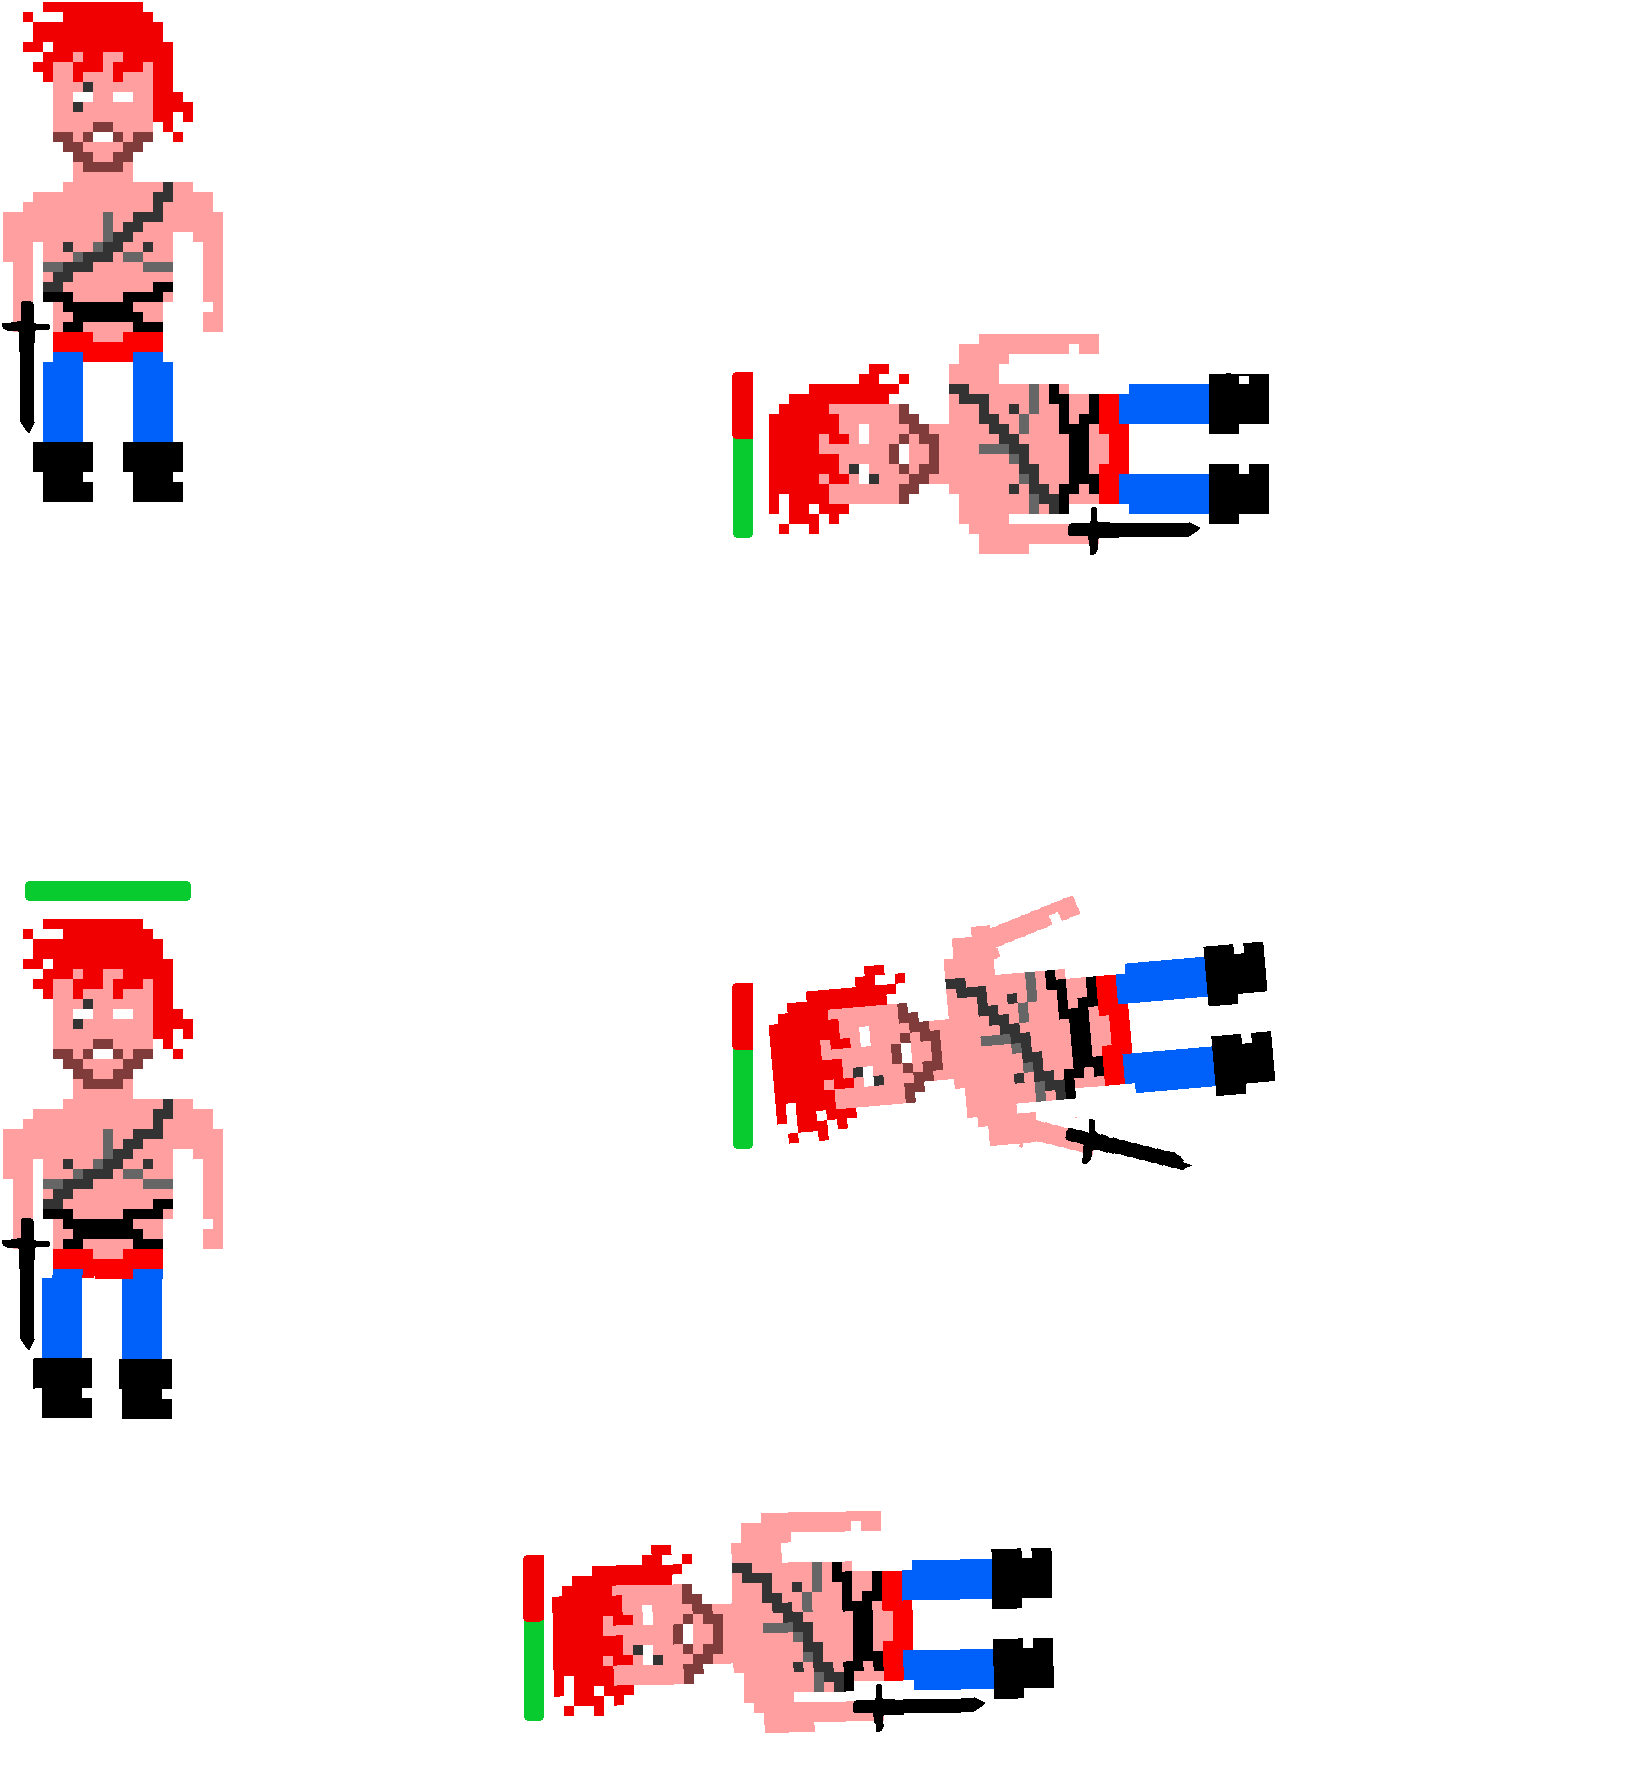
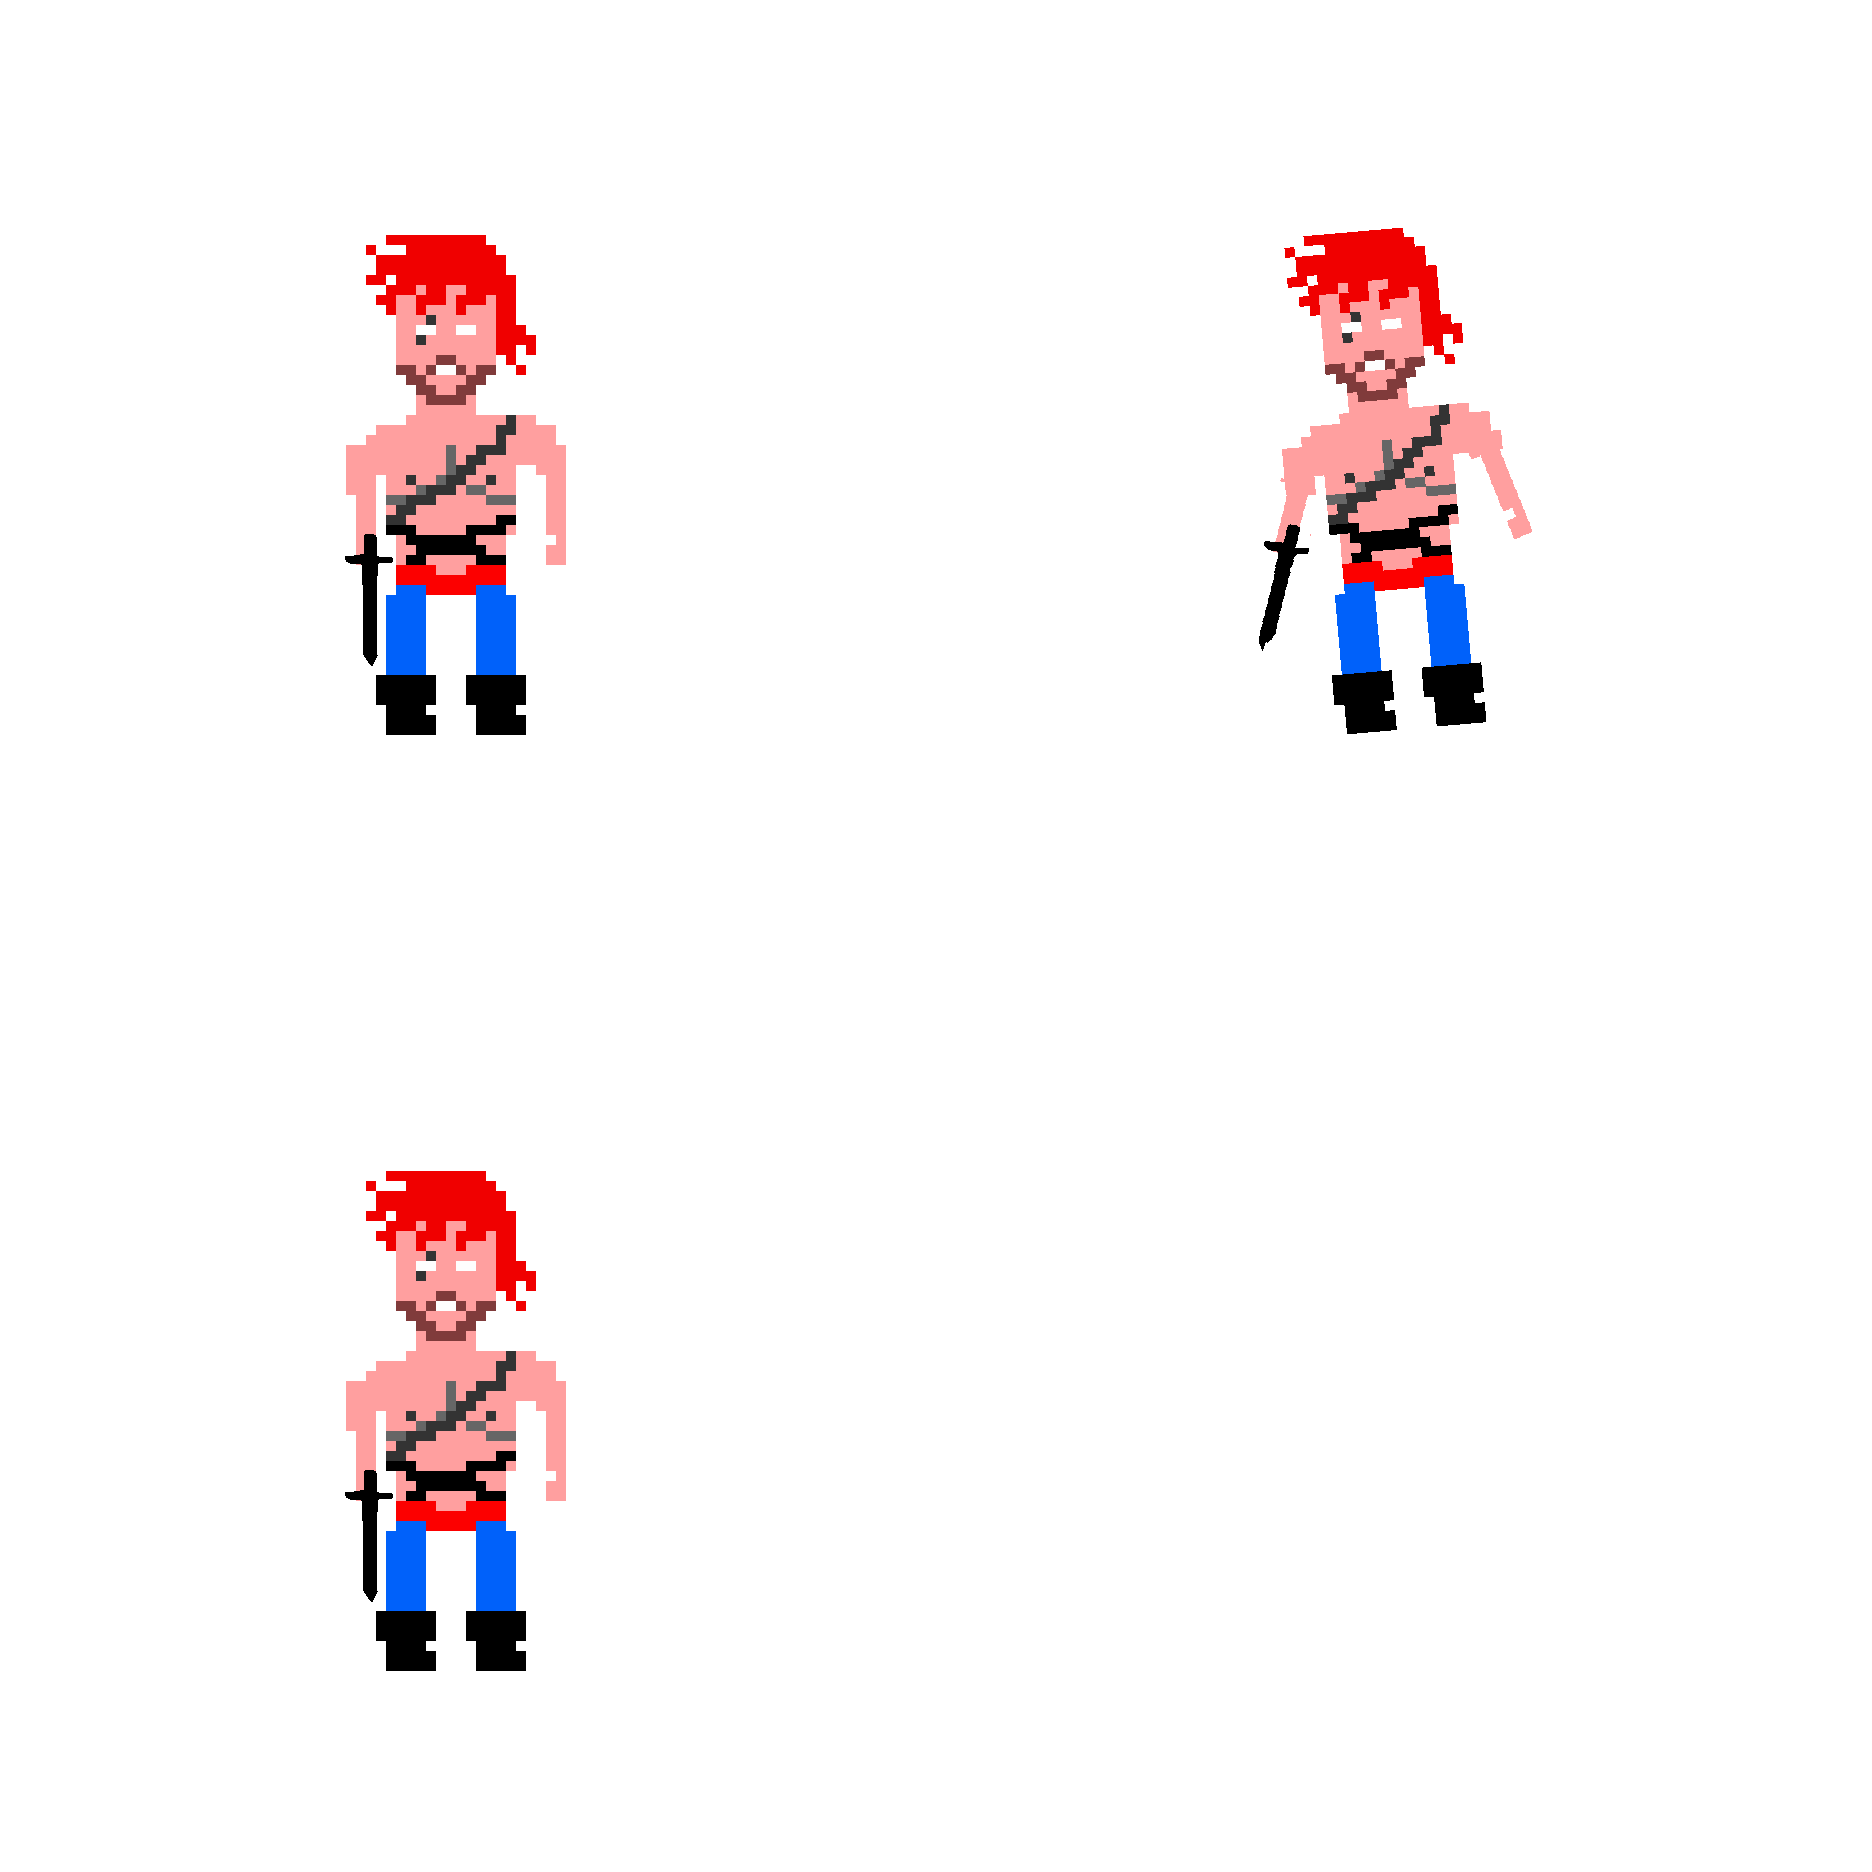
let player keep moving

diff --git a/source/core/src/main/com/deco2800/game/components/CombatStatsComponent.java b/source/core/src/main/com/deco2800/game/components/CombatStatsComponent.java
@@ -174,7 +174,8 @@ public class CombatStatsComponent extends Component {
       }
 
       if (attacker.getEntity().getType() == Entity.Type.PLAYER) {
-        logger.error("attacker--{}", attacker.getEntity().getType());
+        logger.error("attacker--{}", attacker.getEntity().getType(),
+                attacker.getEntity());
         AnimationRenderComponent3 animator =
                 attacker.getEntity().getComponent(AnimationRenderComponent3.class);
         animator.startAnimation("buff");
@@ -210,7 +211,7 @@ public class CombatStatsComponent extends Component {
       }
 
       if (attacker.getEntity().getType() == Entity.Type.PLAYER) {
-        logger.error("attacker--{}", attacker.getEntity().getType());
+        logger.error("attacker--{}", attacker.getEntity().getType(),attacker.getEntity());
         AnimationRenderComponent4 animator =
                 attacker.getEntity().getComponent(AnimationRenderComponent4.class);
         animator.startAnimation("deBuff");
@@ -236,6 +237,50 @@ public class CombatStatsComponent extends Component {
       setHealth(newHealth);
     }
 
+  }
+//  public void hitCoins(CombatStatsComponent attacker) {
+//    try {
+//      if (ServiceLocator.getTimeSource().getTimeSince(invincibleStart) < 1000L) {
+//        return;
+//      }
+//
+//      if (attacker.getEntity().getType() == Entity.Type.PLAYER) {
+//        logger.error("attacker--{}", attacker.getEntity().getType(),attacker.getEntity());
+//        AnimationRenderComponent4 animator =
+//                attacker.getEntity().getComponent(AnimationRenderComponent4.class);
+//        animator.startAnimation("deBuff");
+//        Sound attackSound = ServiceLocator.getResourceService().getAsset(
+//                "sounds/buff2.ogg", Sound.class);
+//        attackSound.play();
+//        logger.error("--end--attacker--{}",attacker.getEntity().getType());
+//      }
+//
+//      if (armour > 0){
+//        int newArmour = getArmour() - attacker.getBaseAttack();
+//        setArmour(newArmour);
+//        invincibleStart = ServiceLocator.getTimeSource().getTime();
+//      }
+//      else{
+//        int newHealth = getHealth() - attacker.getBaseAttack();
+//        setHealth(newHealth);
+//        invincibleStart = ServiceLocator.getTimeSource().getTime();
+//      }
+//
+//    } catch (NullPointerException e) {
+//      int newHealth = getHealth() - attacker.getBaseAttack();
+//      setHealth(newHealth);
+//    }
+//
+//  }
+
+
+
+  public void getBackNormal(CombatStatsComponent attacker){
+    logger.error("attacker--{}", attacker.getEntity().getType());
+    AnimationRenderComponent4 animator =
+            attacker.getEntity().getComponent(AnimationRenderComponent4.class);
+    animator.startAnimation("default");
+    logger.error("--end--attacker--{}",attacker.getEntity().getType());
   }
 }
 

diff --git a/source/core/src/main/com/deco2800/game/entities/factories/PlayerFactory.java b/source/core/src/main/com/deco2800/game/entities/factories/PlayerFactory.java
@@ -53,19 +53,26 @@ public class PlayerFactory {
                                     TextureAtlas.class));
     animator.addAnimation("attack", 0.03f, Animation.PlayMode.NORMAL);
 
+    AnimationRenderComponent5 animator5 =
+            new AnimationRenderComponent5(
+                    ServiceLocator.getResourceService()
+                            .getAsset("images/run.atlas",
+                                    TextureAtlas.class));
+    animator5.addAnimation("run", 0.15f, Animation.PlayMode.LOOP);
+
     AnimationRenderComponent3 animator3 =
             new AnimationRenderComponent3(
                     ServiceLocator.getResourceService()
                             .getAsset("images/posipuff.atlas",
                                     TextureAtlas.class));
-    animator3.addAnimation("buff", 0.03f, Animation.PlayMode.NORMAL);
+    animator3.addAnimation("buff", 0.15f, Animation.PlayMode.NORMAL);
 
     AnimationRenderComponent4 animator4 =
             new AnimationRenderComponent4(
                     ServiceLocator.getResourceService()
                             .getAsset("images/negbuff.atlas",
                                     TextureAtlas.class));
-    animator4.addAnimation("deBuff", 0.03f, Animation.PlayMode.NORMAL);
+    animator4.addAnimation("deBuff", 0.15f, Animation.PlayMode.NORMAL);
 
 //    AnimationRenderComponent animator1 =
 //            new AnimationRenderComponent(
@@ -86,7 +93,7 @@ public class PlayerFactory {
 
     Entity player =
         new Entity(Entity.Type.PLAYER)
-            .addComponent(new TextureRenderComponent("images/new_player_2021.png"))
+            .addComponent(new TextureRenderComponent("images/blank.png"))
             .addComponent(new PhysicsComponent())
             .addComponent(new ColliderComponent())
             .addComponent(new HitboxComponent().setLayer(PhysicsLayer.PLAYER))
@@ -96,12 +103,11 @@ public class PlayerFactory {
             .addComponent(inputComponent)
                 .addComponent(new TouchAttackComponent(PhysicsLayer.NPC, PhysicsLayer.OBSTACLE, 1.5f))
                 .addComponent(animator)
-//                .addComponent(animator3)
             .addComponent(new PlayerStatsDisplay())
                 .addComponent(animator2)
-//                .addComponent(animator1);
                 .addComponent(animator3)
-                .addComponent(animator4);
+                .addComponent(animator4)
+                .addComponent(animator5);
 
     PhysicsUtils.setScaledCollider(player, 0.6f, 0.3f);
     player.getComponent(ColliderComponent.class).setDensity(1.5f);

diff --git a/source/core/src/main/com/deco2800/game/components/player/PlayerActions.java b/source/core/src/main/com/deco2800/game/components/player/PlayerActions.java
@@ -13,6 +13,7 @@ import com.deco2800.game.rendering.AnimationRenderComponent;
 import com.deco2800.game.services.ServiceLocator;
 import org.slf4j.Logger;
 import org.slf4j.LoggerFactory;
+import com.deco2800.game.rendering.AnimationRenderComponent5;
 
 import javax.crypto.EncryptedPrivateKeyInfo;
 import java.security.Key;
@@ -31,19 +32,26 @@ public class PlayerActions extends Component {
   private boolean moving = false;
   private  CombatStatsComponent combatStatsComponent;
   AnimationRenderComponent animator;
+  AnimationRenderComponent5 animator2;
 
   @Override
   public void create() {
     animator = this.entity.getComponent(AnimationRenderComponent.class);
+    animator2 = this.entity.getComponent(AnimationRenderComponent5.class);
     physicsComponent = entity.getComponent(PhysicsComponent.class);
     entity.getEvents().addListener("walk", this::walk);
     entity.getEvents().addListener("walkStop", this::stopWalking);
     entity.getEvents().addListener("attack", this::attack);
     entity.getEvents().addListener("unAttack", this::unAttack);
+    entity.getEvents().addListener("run", this::attack);
+    entity.getEvents().addListener("run", this::run);
   }
 
   @Override
   public void update() {
+    if(animator2.getCurrentAnimation() == null) {
+       animator2.startAnimation("run");
+    }
     if (moving) {
       updateSpeed();
     }
@@ -66,6 +74,7 @@ public class PlayerActions extends Component {
   void walk(Vector2 direction) {
     this.walkDirection = direction;
     moving = true;
+
   }
 
   /**
@@ -103,12 +112,16 @@ public class PlayerActions extends Component {
     }
     Sound attackSound = ServiceLocator.getResourceService().getAsset("sounds/attack.ogg", Sound.class);
     attackSound.play();
+    animator2.stopAnimation();
     animator.startAnimation("attack");
+
   }
 
   void unAttack(){
     animator.stopAnimation();
+    animator2.startAnimation("run");
   }
+  void run(){animator2.startAnimation("run"); }
 
   private Entity findNearestTargets(Array<Entity> entities) {
     Entity result = null;

diff --git a/source/core/src/main/com/deco2800/game/entities/factories/ObstacleFactory.java b/source/core/src/main/com/deco2800/game/entities/factories/ObstacleFactory.java
@@ -34,7 +34,7 @@ public class ObstacleFactory {
 	 */
 	public static Entity createTree() {
 		Entity tree =
-				new Entity(Entity.Type.OBSTACLE)
+				new Entity(Entity.Type.DEBUFF)
 						.addComponent(new TextureRenderComponent("images/tree.png"))
 						.addComponent(new PhysicsComponent())
 						.addComponent(new HitboxComponent().setLayer(PhysicsLayer.OBSTACLE))
@@ -50,7 +50,7 @@ public class ObstacleFactory {
 
 	public static Entity createRunesGate() {
 		Entity RunesGate =
-				new Entity(Entity.Type.OBSTACLE)
+				new Entity(Entity.Type.DEBUFF)
 						.addComponent(new TextureRenderComponent("images/RunesGate.gif"))
 						.addComponent(new PhysicsComponent())
 						.addComponent(new ColliderComponent().setLayer(PhysicsLayer.OBSTACLE))
@@ -66,7 +66,7 @@ public class ObstacleFactory {
 
 	public static Entity createStoneObstacle() { //CombatStatsComponent combat) {
 		Entity stone =
-				new Entity(Entity.Type.OBSTACLE)
+				new Entity(Entity.Type.DEBUFF)
 						.addComponent(new TextureRenderComponent("images/stone.png"))
 						.addComponent(new PhysicsComponent())
 						.addComponent(new ColliderComponent().setLayer(PhysicsLayer.OBSTACLE))
@@ -85,7 +85,7 @@ public class ObstacleFactory {
 
 	public static Entity createthunderCloud() {
 		Entity thunderCloud =
-				new Entity(Entity.Type.OBSTACLE)
+				new Entity(Entity.Type.DEBUFF)
 						.addComponent(new TextureRenderComponent("images/thunderCloud.gif"))
 						.addComponent(new PhysicsComponent())
 						.addComponent(new ColliderComponent().setLayer(PhysicsLayer.OBSTACLE))
@@ -103,7 +103,7 @@ public class ObstacleFactory {
 
 	public static Entity createFire() {
 		Entity fire =
-				new Entity(Entity.Type.OBSTACLE)
+				new Entity(Entity.Type.DEBUFF)
 						.addComponent(new TextureRenderComponent("images/fire.png"))
 						.addComponent(new ColliderComponent().setLayer(PhysicsLayer.OBSTACLE))
 						.addComponent(new HitboxComponent().setLayer(PhysicsLayer.OBSTACLE))

diff --git a/source/core/src/main/com/deco2800/game/rendering/AnimationRenderComponent5.java b/source/core/src/main/com/deco2800/game/rendering/AnimationRenderComponent5.java
@@ -33,7 +33,7 @@ import java.util.Map;
  * - gdx-texture-packer-gui (recommended) https://github.com/crashinvaders/gdx-texture-packer-gui <br>
  * - other third-party tools, e.g. https://www.codeandweb.com/texturepacker <br>
  */
-public class AnimationRenderComponent4 extends RenderComponent {
+public class AnimationRenderComponent5 extends RenderComponent {
     private static final Logger logger = LoggerFactory.getLogger(AnimationRenderComponent.class);
     private final GameTime timeSource;
     private final TextureAtlas atlas;
@@ -46,7 +46,7 @@ public class AnimationRenderComponent4 extends RenderComponent {
      * Create the component for a given texture atlas.
      * @param atlas libGDX-supported texture atlas containing desired animations
      */
-    public AnimationRenderComponent4(TextureAtlas atlas) {
+    public AnimationRenderComponent5(TextureAtlas atlas) {
         this.atlas = atlas;
         this.animations = new HashMap<>(4);
         timeSource = ServiceLocator.getTimeSource();
@@ -57,10 +57,9 @@ public class AnimationRenderComponent4 extends RenderComponent {
      * @param name Name of the animation. Must match the name of this animation inside the texture
      *             atlas.
      * @param frameDuration How long, in seconds, to show each frame of the animation for when playing
-     * @param i
      * @return true if added successfully, false otherwise
      */
-    public boolean addAnimation(String name, float frameDuration, int i) {
+    public boolean addAnimation(String name, float frameDuration) {
         return addAnimation(name, frameDuration, PlayMode.NORMAL);
     }
 

diff --git a/source/core/src/main/com/deco2800/game/areas/RainbowBridge.java b/source/core/src/main/com/deco2800/game/areas/RainbowBridge.java
@@ -84,7 +84,10 @@ public class RainbowBridge extends GameArea {
             "images/attack.png",
             "images/new_player.png",
             "images/negbuff.png",
-            "images/posipuff.png"
+            "images/posipuff.png",
+            "images/run.png",
+            "images/blank.png"
+
     };
 
     private static final String[] rainbowBridgeSounds = {"sounds/Impact4.ogg", "sounds/buff.ogg", "sounds/buff2.ogg" , "sounds/e.ogg", "sounds/attack.ogg"};
@@ -97,7 +100,8 @@ public class RainbowBridge extends GameArea {
             "images/terrain_iso_grass.atlas", "images/ghost.atlas", "images" +
             "/ghostKing.atlas","images/dragon.atlas","images/littleGreen" +
             ".atlas", "images/attack.atlas", "images/touch.atlas","images" +
-            "/negbuff.atlas", "images/posipuff.atlas",  "images/food.atlas"
+            "/negbuff.atlas", "images/posipuff.atlas",  "images/food.atlas",
+            "images/run.atlas"
     };
 
     private final TerrainFactory terrainFactory;

diff --git a/source/core/src/main/com/deco2800/game/components/player/KeyboardPlayerInputComponent.java b/source/core/src/main/com/deco2800/game/components/player/KeyboardPlayerInputComponent.java
@@ -60,6 +60,7 @@ public class KeyboardPlayerInputComponent extends InputComponent {
           System.out.println("current lane number:" + i);
       }
     }else if (keycode == Keys.E){
+
       entity.setPosition(entity.getPosition().x, lanes.get(0).getMid() - (1.6f * (1 + 1)));
       i = 0;
     }else if (keycode == Keys.Q){
@@ -138,8 +139,9 @@ public class KeyboardPlayerInputComponent extends InputComponent {
   }
 
   private void triggerWalkEvent() {
+    entity.getEvents().trigger("run");
     if (walkDirection.epsilonEquals(Vector2.Zero)) {
-      entity.getEvents().trigger("walkStop");
+      entity.getEvents().trigger("run");
     } else {
       entity.getEvents().trigger("walk", walkDirection);
     }

diff --git a/source/core/src/main/com/deco2800/game/components/TouchAttackComponent.java b/source/core/src/main/com/deco2800/game/components/TouchAttackComponent.java
@@ -82,10 +82,14 @@ public class TouchAttackComponent extends Component {
       else if(targetStats.getEntity().getType() == Entity.Type.DEBUFF){
         targetStats.hitDeBuff(combatStats);
       }
+//      else if(targetStats.getEntity().getType() == Entity.Type.COLLECTABLES){
+//        targetStats.hitCoins(combatStats);
+//      }
       else{
         targetStats.hit(combatStats);
       }
     }
+
 
     // Apply knockback
     PhysicsComponent physicsComponent = target.getComponent(PhysicsComponent.class);

diff --git a/source/core/src/main/com/deco2800/game/entities/factories/NPCFactory.java b/source/core/src/main/com/deco2800/game/entities/factories/NPCFactory.java
@@ -37,9 +37,9 @@ public class NPCFactory {
   private static final NPCConfigs configs =
       FileLoader.readClass(NPCConfigs.class, "configs/NPCs.json");
 
-  /**
-   * Creates a ghost entity.
-   *
+  /** 
+   * Creates a ghost entity. 
+   * 
    * @param target entity to chase
    * @return entity
    */
